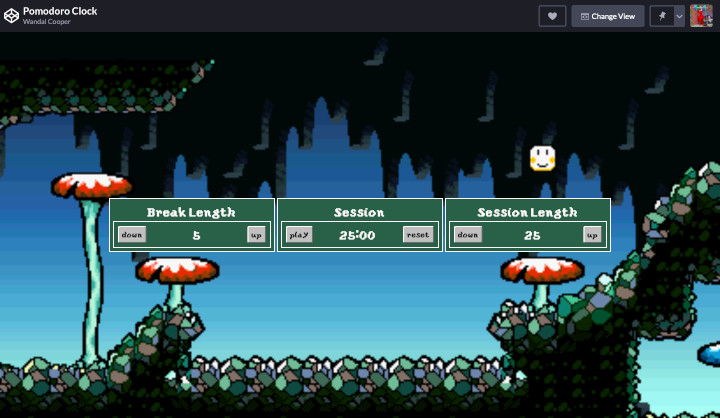
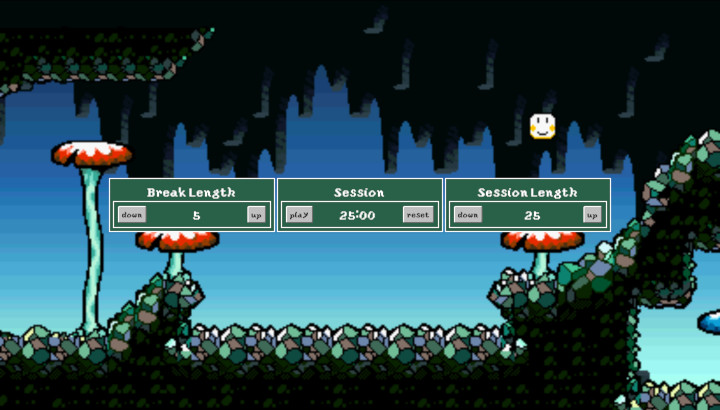
Removed scroll bounce from project.

diff --git a/src/App.css b/src/App.css
@@ -20,6 +20,7 @@ body {
   background-size: cover;
   font-family: "YoshisIsland";
   font-size: 32px;
+  overflow: hidden;
 }
 
 button {
